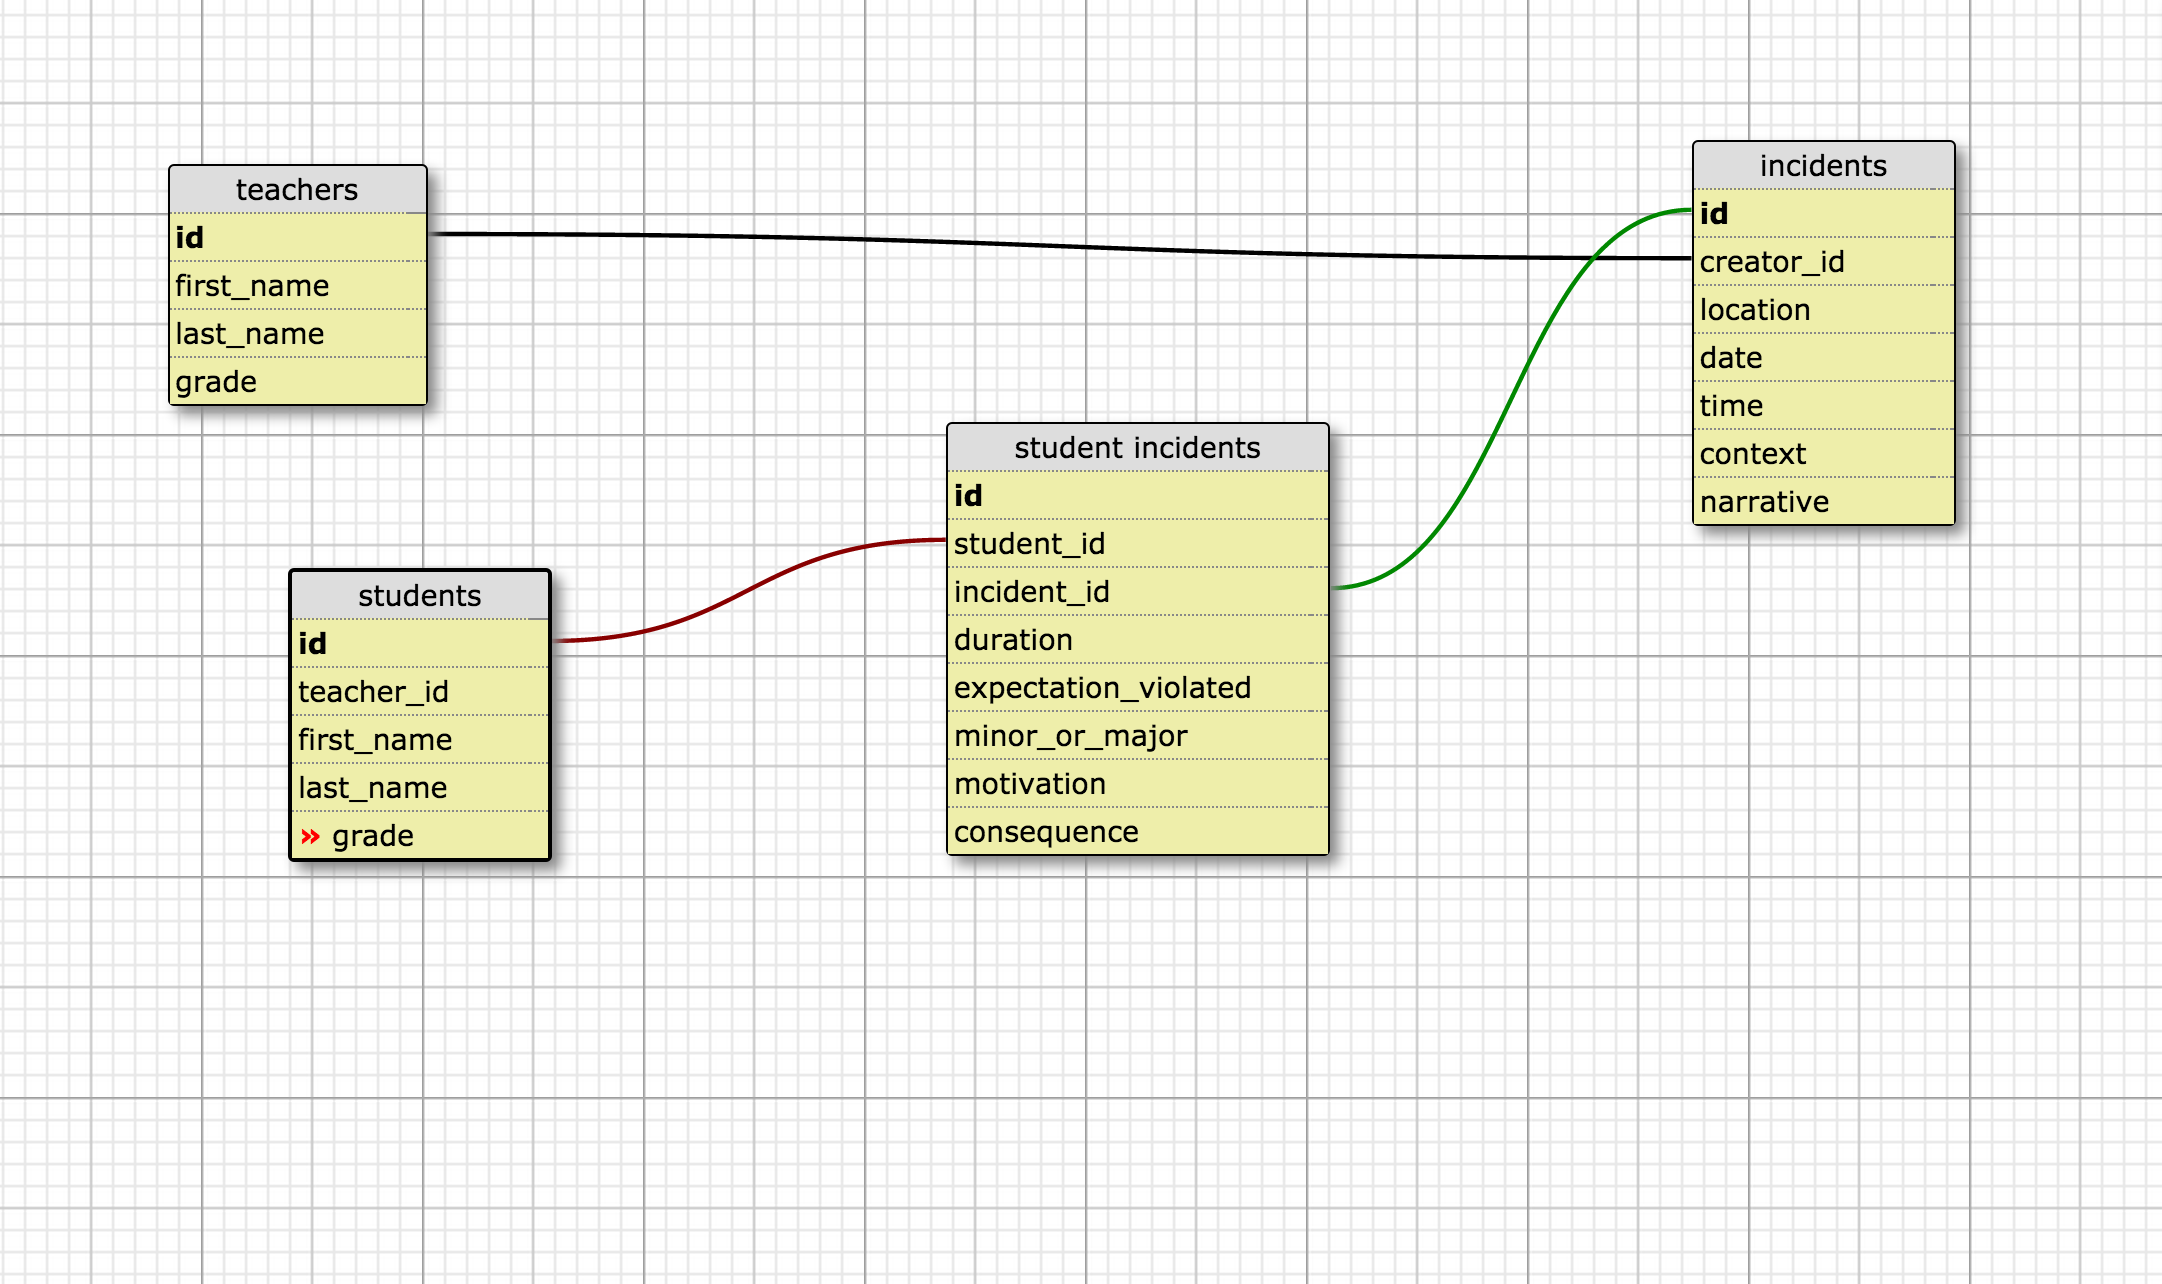
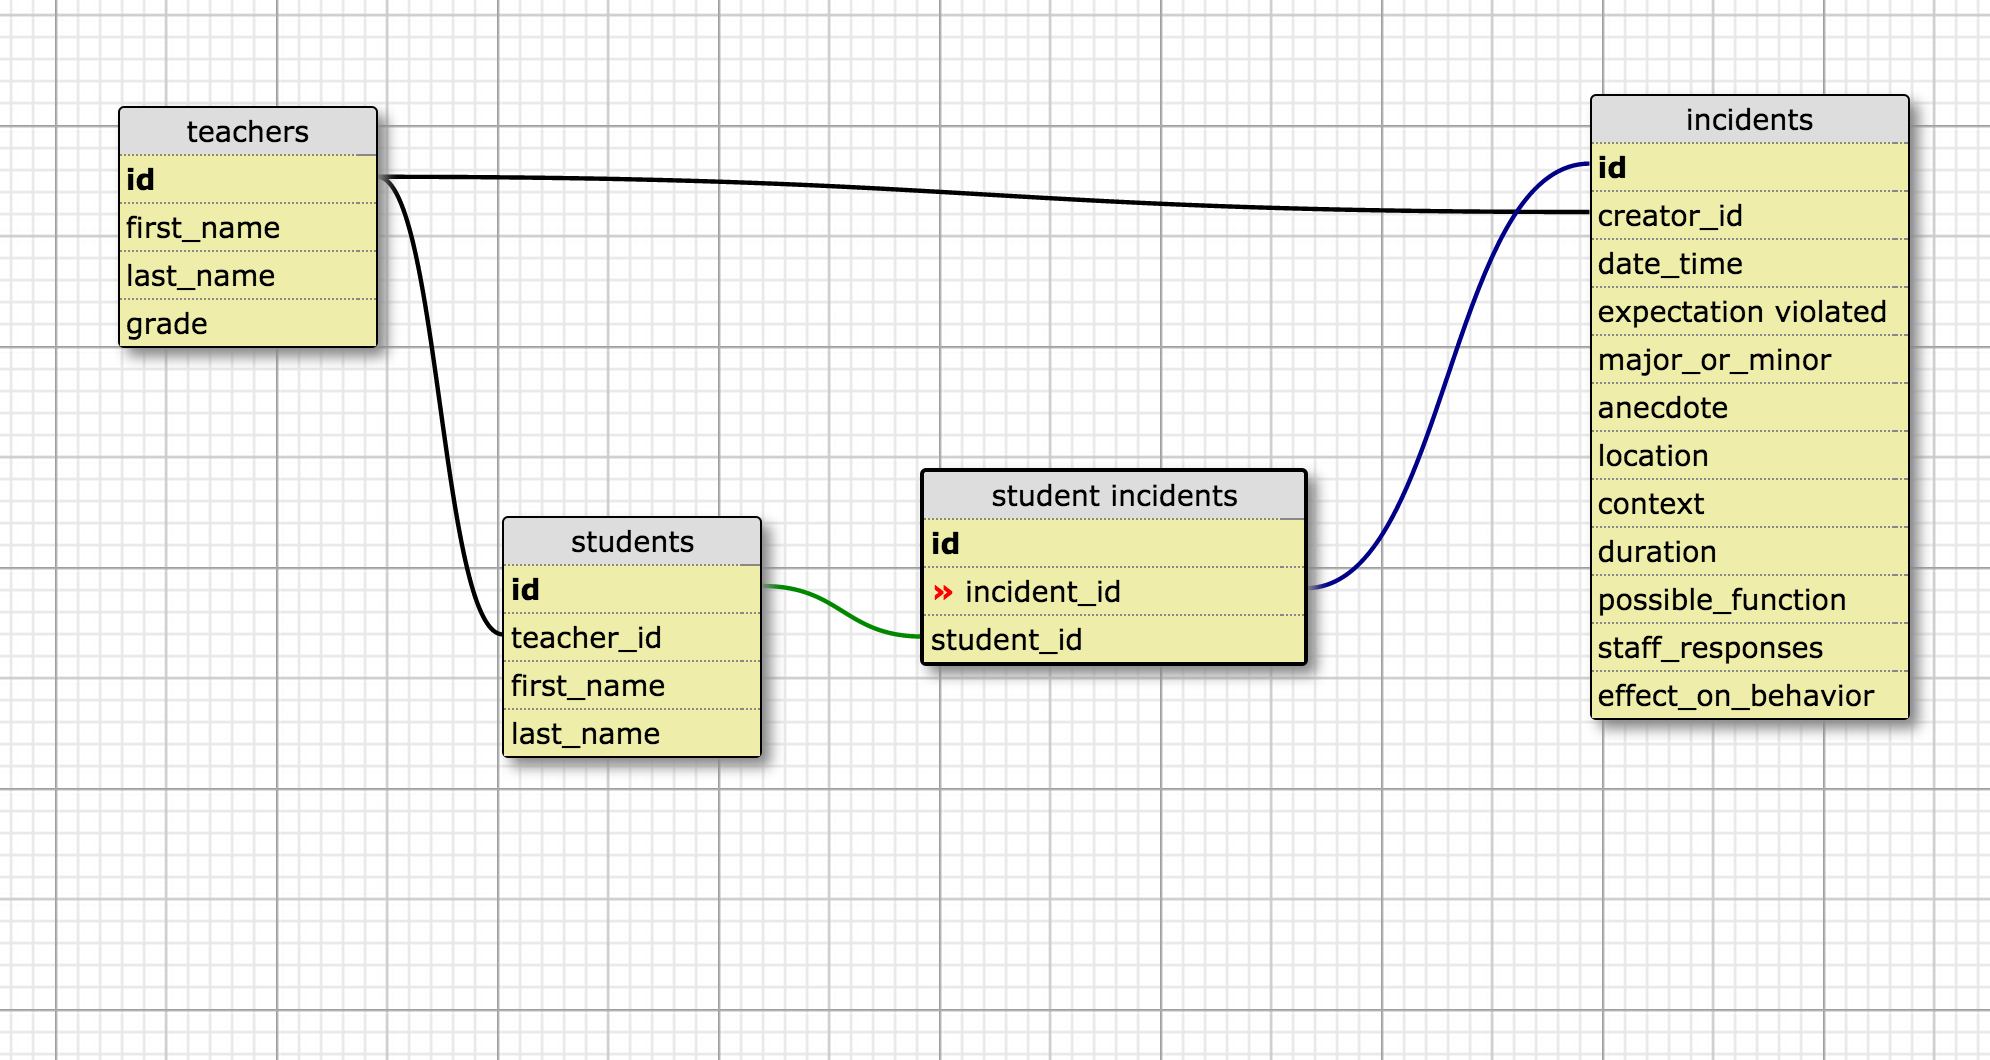
Redesigned the database so we can get done with this project in a weekend.

diff --git a/incident-reports/db/migrate/20150112024900_create_incidents.rb b/incident-reports/db/migrate/20150112024900_create_incidents.rb
@@ -2,11 +2,16 @@ class CreateIncidents < ActiveRecord::Migration
   def change
     create_table :incidents do |t|
     	t.integer :creator_id
+    	t.string  :date_time
+    	t.string  :expectation_violated
+    	t.string  :major_or_minor
+    	t.text    :anecdote
     	t.string  :location
-    	t.string  :date
-    	t.string  :time
-    	t.string  :context
-    	t.text    :narrative
+      t.string  :context
+      t.string  :duration
+      t.string  :possible_function
+      t.string  :staff_responses
+      t.string  :effect_on_behavior
 
       t.timestamps
     end

diff --git a/incident-reports/db/migrate/20150112024953_create_student_incidents.rb b/incident-reports/db/migrate/20150112024953_create_student_incidents.rb
@@ -3,11 +3,6 @@ class CreateStudentIncidents < ActiveRecord::Migration
     create_table :student_incidents do |t|
     	t.integer :student_id
     	t.integer :incident_id
-    	t.string :duration
-    	t.string :expectation_violated
-    	t.string :severity
-    	t.string :motivation
-    	t.text   :consequence
 
       t.timestamps
     end
